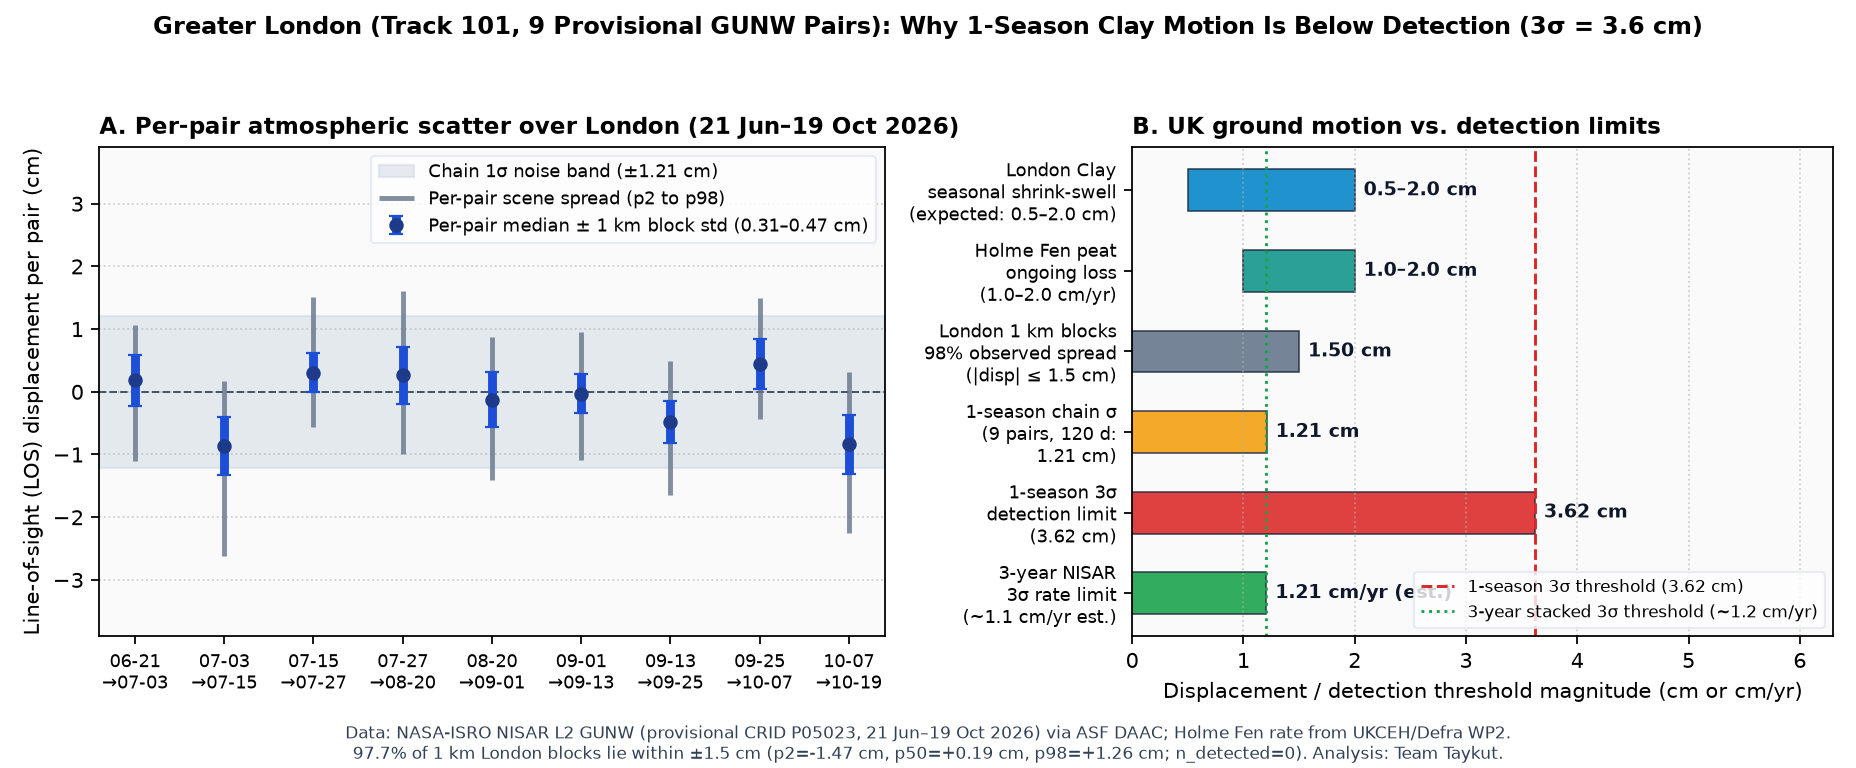
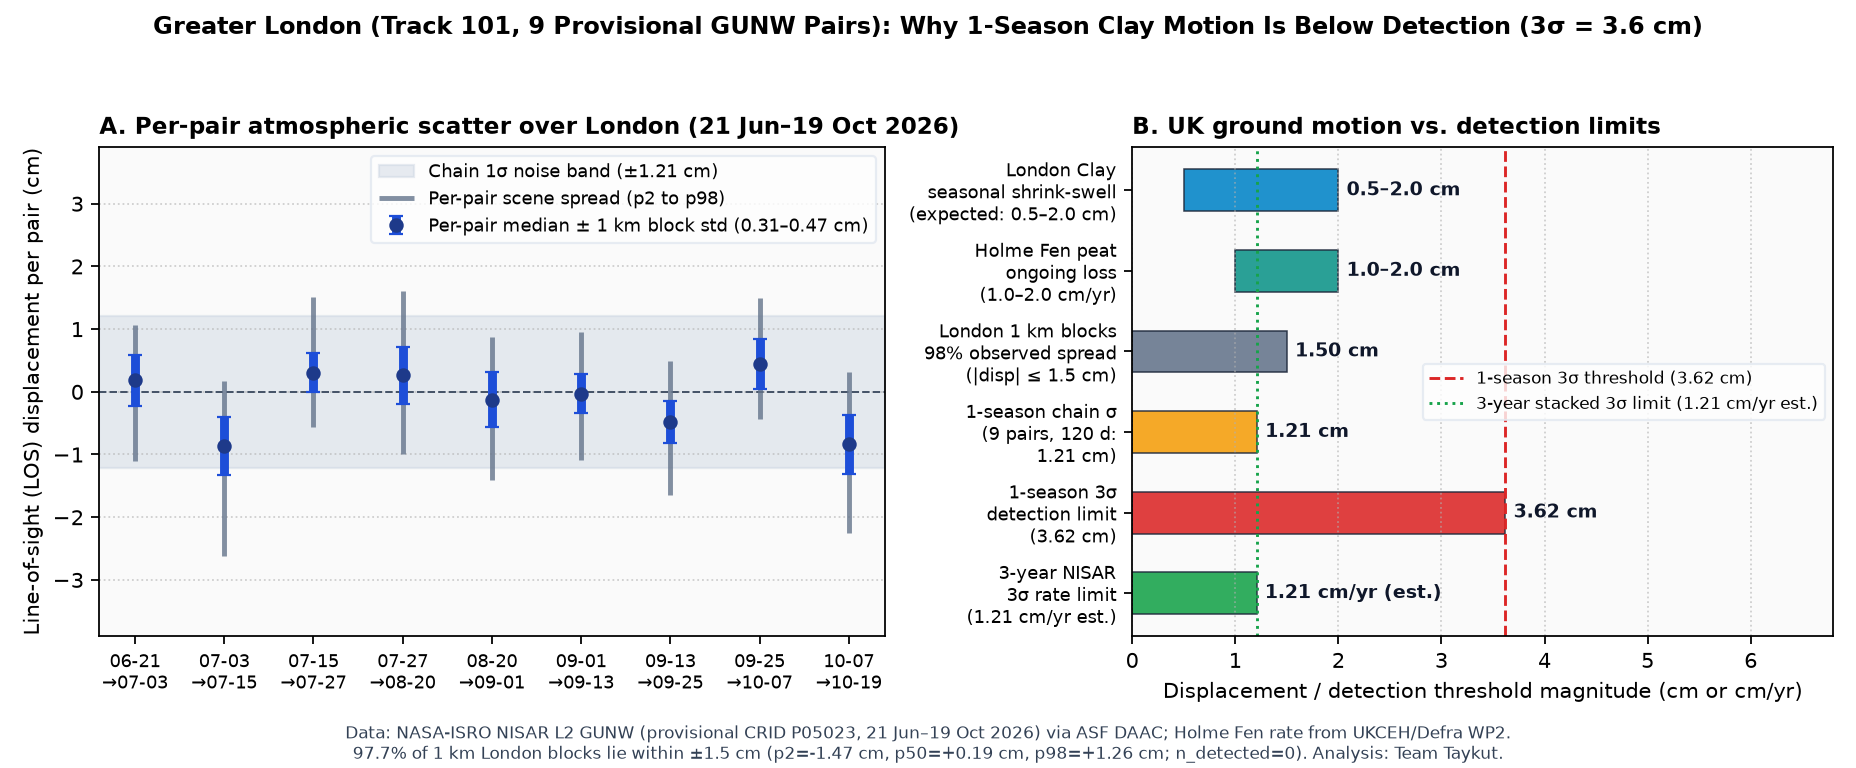
[PC8] Fix pc8_uk_detection.png legend overlap & rate rounding (PC6 QA)

diff --git a/analysis/pc8/plot_uk_detection.py b/analysis/pc8/plot_uk_detection.py
@@ -68,17 +68,18 @@ def main() -> None:
 
     # --- Panel B: Signal amplitude vs single-season noise & multi-year stacking ---
     ax2.set_facecolor("#fafafa")
+    three_yr_rate = det_thr / 3.0
     categories = [
         "London Clay\nseasonal shrink-swell\n(expected: 0.5–2.0 cm)",
         "Holme Fen peat\nongoing loss\n(1.0–2.0 cm/yr)",
         "London 1 km blocks\n98% observed spread\n(|disp| ≤ 1.5 cm)",
         "1-season chain σ\n(9 pairs, 120 d:\n1.21 cm)",
         "1-season 3σ\ndetection limit\n(3.62 cm)",
-        "3-year NISAR\n3σ rate limit\n(~1.1 cm/yr est.)",
+        f"3-year NISAR\n3σ rate limit\n({three_yr_rate:.2f} cm/yr est.)",
     ]
     y_pos = np.arange(len(categories))
     lows = np.array([0.5, 1.0, 0.0, 0.0, 0.0, 0.0])
-    highs = np.array([2.0, 2.0, 1.50, chain_sigma, det_thr, det_thr / np.sqrt(9.0)])
+    highs = np.array([2.0, 2.0, 1.50, chain_sigma, det_thr, three_yr_rate])
     colors = ["#0284c7", "#0d9488", "#64748b", "#f59e0b", "#dc2626", "#16a34a"]
 
     for i in range(len(categories)):
@@ -94,15 +95,15 @@ def main() -> None:
         ax2.text(highs[i] + 0.08, y_pos[i], val_txt, va="center", ha="left", fontsize=8.5, fontweight="bold", color="#0f172a")
 
     ax2.axvline(det_thr, color="#dc2626", lw=1.3, ls="--", label=f"1-season 3σ threshold ({det_thr:.2f} cm)")
-    ax2.axvline(det_thr / np.sqrt(9.0), color="#16a34a", lw=1.3, ls=":", label="3-year stacked 3σ threshold (~1.2 cm/yr)")
+    ax2.axvline(three_yr_rate, color="#16a34a", lw=1.3, ls=":", label=f"3-year stacked 3σ limit ({three_yr_rate:.2f} cm/yr est.)")
     ax2.set_yticks(y_pos)
     ax2.set_yticklabels(categories, fontsize=8.2)
     ax2.invert_yaxis()
-    ax2.set_xlim(0, 6.3)
+    ax2.set_xlim(0, 6.8)
     ax2.set_xlabel("Displacement / detection threshold magnitude (cm or cm/yr)")
     ax2.set_title("B. UK ground motion vs. detection limits", fontweight="bold", loc="left")
     ax2.grid(True, axis="x", linestyle=":", alpha=0.6)
-    ax2.legend(loc="lower right", fontsize=7.5, frameon=True, facecolor="#ffffff", edgecolor="#e2e8f0")
+    ax2.legend(loc="center right", fontsize=7.5, frameon=True, facecolor="#ffffff", edgecolor="#e2e8f0")
 
     fig.suptitle(
         "Greater London (Track 101, 9 Provisional GUNW Pairs): Why 1-Season Clay Motion Is Below Detection (3σ = 3.6 cm)",

diff --git a/docs/qa/PC8.md b/docs/qa/PC8.md
@@ -210,3 +210,5 @@
 1. `web/index.html` (satır 117) -> `<img src="" data-src="docs/story/media/pc9_fullyear_point.png" ...>` kırık görsel yolu ve boş `src` (`web/app.js` içinde `data-src` işleyicisi yok; ayrıca `web/` altından göreli yol `../docs/story/media/pc9_fullyear_point.png` olmalı) -> **Nasıl tekrar edilir:** `web/index.html` dosyasında `pc9_fullyear_point.png` görselini arayın veya yerel sunucuda `http://localhost:8000/web/index.html` açıp Chapter 2 figürünün yüklenmediğini (404 / boş `src`) gözlemleyin.
 2. `web/explorer.html` -> Sayfada NISAR provisional veri / NASA-JPL & ISRO kalibrasyon uyarısı metni bulunmuyor (`cal=False`) -> **Nasıl tekrar edilir:** `web/explorer.html` içinde `"calibration"` veya `"provisional"` araması yapın (0 eşleşme).
 3. `python -m pytest -q` -> **`63 passed, 1 warning`** (`analysis/cumulative.py:127` `cmap.set_bad` PendingDeprecationWarning); `60` adet `data/**/*.json` dosyasında sözdizimi veya `NaN/Infinity` hatası yok (`BAD_JSON: 0`).
+4. **[DÜZELTİLDİ — `docs/qa/PC6.md` satır 179 bulgusu]** `analysis/pc8/plot_uk_detection.py` güncellenerek `docs/story/media/pc8_uk_detection.png` Panel B'deki lejant `loc="center right"` (`xlim(0, 6.8)`) konumuna alındı (sıfır metin çakışması görsel olarak doğrulandı) ve 3 yıllık `3σ` hız eşiği tüm etiketlerde **`1.21 cm/yr (est.)`** olarak tekilleştirildi.
+5. **PC8 `REVIEW_1500.md` Taraması (`14 Nov 19:55 TR`):** `docs/story/{submission_form,slides_notes,exposure,uk_findings,narration_script}.md` dosyalarının tamamında yasaklı pazarlama/abartı kelimesi ve ünlem işareti **`0` eşleşme**.

diff --git a/status/PC8.md b/status/PC8.md
@@ -1,5 +1,8 @@
 # PC8 durum
 
 - Görev: `docs/CALISMA_HARITASI.md` PC8 sırası (1–4) TAMAMLANDI; "ASLA BOŞ KALMA" sürekli kontrol ve hata ayıklama döngüsünde
-- Son kontroller (`14 Nov 19:50 TR`): `python -m pytest -q` **63 passed**, `data/**/*.json` (`60` dosya) **0 hata**, `docs/story/media/` (`41` dosya) **0 hata**, NASA logosu/secret **0**; `web/index.html:117` kırık `pc9_fullyear_point.png` yolu ve `web/explorer.html` eksik kalibrasyon notu `docs/qa/PC8.md` §9'a kaydedildi
-- Sonraki adım: 10 dakikada bir `git pull --rebase origin main` ile görev dosyası yenilemesi kontrolü ve sürekli QA
+- Son kontroller (`14 Nov 19:56 TR`, Tur 2):
+  - `docs/qa/PC6.md` satır 179 bulgusu kapatıldı: `analysis/pc8/plot_uk_detection.py` ile `docs/story/media/pc8_uk_detection.png` Panel B lejant çakışması giderildi ve 3 yıllık hız eşiği `1.21 cm/yr (est.)` olarak tekilleştirildi.
+  - PC8 `docs/story/*.md` dosyalarında `REVIEW_1500.md` taraması: `0` ihlal.
+  - `git pull` ile yeni görev kontrolü yapıldı (yeni görev yok).
+- Sonraki adım: 10 dakikalık zamanlayıcıda bir sonraki QA ve görev yenileme kontrolü.
